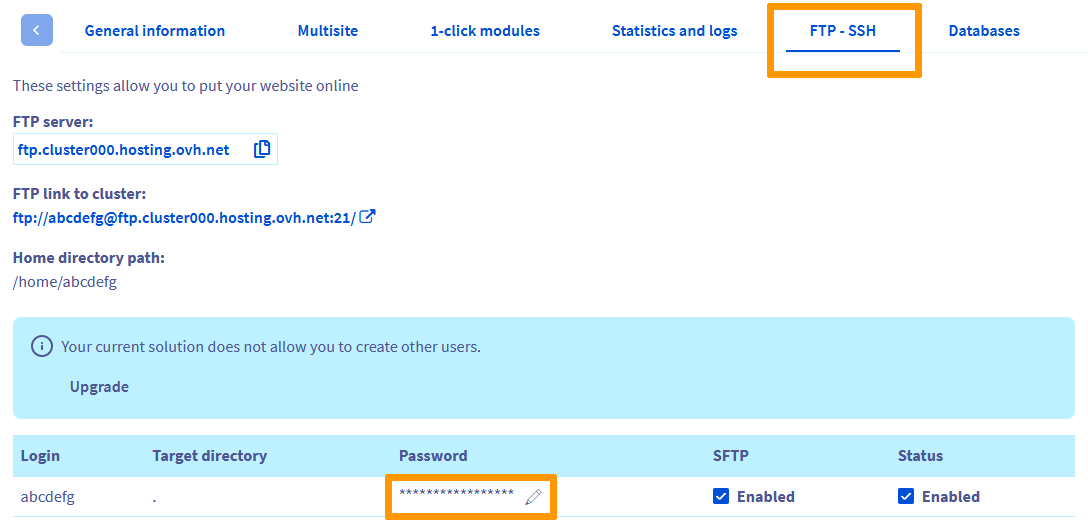
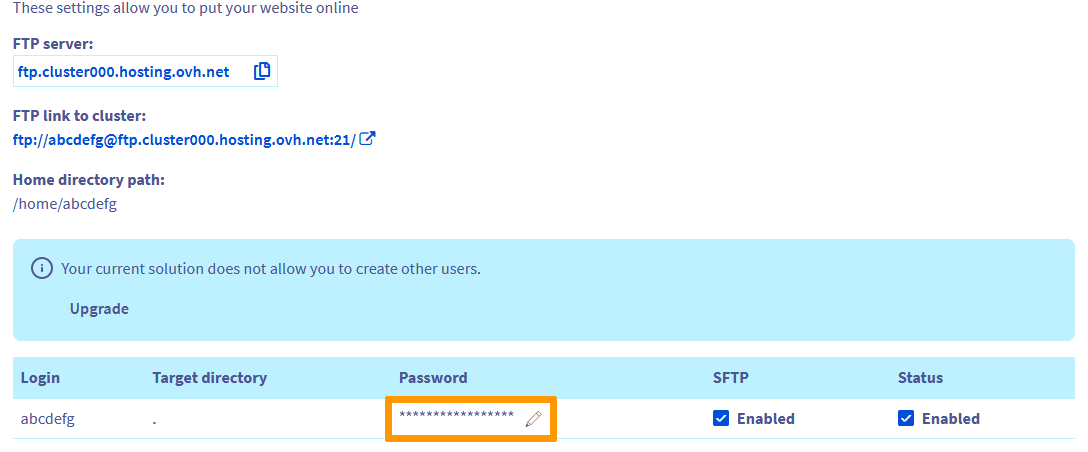
doing

diff --git a/pages/web_cloud/web_hosting/ssh_on_webhosting/guide.de-de.md b/pages/web_cloud/web_hosting/ssh_on_webhosting/guide.de-de.md
@@ -63,7 +63,7 @@ Klicken Sie auf die Tabs, um die **4** Schritte anzuzeigen.
 >>
 >> Klicken Sie auf den Tab `FTP - SSH`{.action}.
 >>
->> ![FTP-SSH](/pages/assets/screens/control_panel/product-selection/web-cloud/web-hosting/general-information/ftp-ssh.png){.thumbnail}
+>> ![FTP-SSH](/pages/assets/screens/control_panel/product-selection/web-cloud/web-hosting/ftp-ssh.png){.thumbnail}
 >> 
 > **Schritt 4**
 >>
@@ -102,7 +102,7 @@ Klicken Sie auf die Tabs, um die **4** Schritte anzuzeigen.
 >>
 >> Klicken Sie auf den Tab `FTP - SSH`{.action}.
 >>
->> ![FTP-SSH](/pages/assets/screens/control_panel/product-selection/web-cloud/web-hosting/general-information/ftp-ssh.png){.thumbnail}
+>> ![FTP-SSH](/pages/assets/screens/control_panel/product-selection/web-cloud/web-hosting/ftp-ssh.png){.thumbnail}
 >> 
 > **Schritt 4**
 >>

diff --git a/pages/web_cloud/web_hosting/ssh_on_webhosting/guide.en-asia.md b/pages/web_cloud/web_hosting/ssh_on_webhosting/guide.en-asia.md
@@ -63,7 +63,7 @@ Click on the tabs below to view each of the **4** steps in succession.
 >>
 >> On the page that pops up, click on the `FTP - SSH`{.action} tab.
 >>
->> ![FTP-SSH](/pages/assets/screens/control_panel/product-selection/web-cloud/web-hosting/general-information/ftp-ssh.png){.thumbnail}
+>> ![FTP-SSH](/pages/assets/screens/control_panel/product-selection/web-cloud/web-hosting/ftp-ssh.png){.thumbnail}
 >>
 > **Step 4**
 >>
@@ -102,7 +102,7 @@ Click on the tabs below to view each of the **4** steps in succession.
 >>
 >> On the page that pops up, click on the `FTP - SSH`{.action} tab.
 >>
->> ![FTP-SSH](/pages/assets/screens/control_panel/product-selection/web-cloud/web-hosting/general-information/ftp-ssh.png){.thumbnail}
+>> ![FTP-SSH](/pages/assets/screens/control_panel/product-selection/web-cloud/web-hosting/ftp-ssh.png){.thumbnail}
 >>
 > **Step 4**
 >>

diff --git a/pages/web_cloud/web_hosting/ssh_on_webhosting/guide.en-au.md b/pages/web_cloud/web_hosting/ssh_on_webhosting/guide.en-au.md
@@ -63,7 +63,7 @@ Click on the tabs below to view each of the **4** steps in succession.
 >>
 >> On the page that pops up, click on the `FTP - SSH`{.action} tab.
 >>
->> ![FTP-SSH](/pages/assets/screens/control_panel/product-selection/web-cloud/web-hosting/general-information/ftp-ssh.png){.thumbnail}
+>> ![FTP-SSH](/pages/assets/screens/control_panel/product-selection/web-cloud/web-hosting/ftp-ssh.png){.thumbnail}
 >>
 > **Step 4**
 >>
@@ -102,7 +102,7 @@ Click on the tabs below to view each of the **4** steps in succession.
 >>
 >> On the page that pops up, click on the `FTP - SSH`{.action} tab.
 >>
->> ![FTP-SSH](/pages/assets/screens/control_panel/product-selection/web-cloud/web-hosting/general-information/ftp-ssh.png){.thumbnail}
+>> ![FTP-SSH](/pages/assets/screens/control_panel/product-selection/web-cloud/web-hosting/ftp-ssh.png){.thumbnail}
 >>
 > **Step 4**
 >>

diff --git a/pages/web_cloud/web_hosting/ssh_on_webhosting/guide.en-ca.md b/pages/web_cloud/web_hosting/ssh_on_webhosting/guide.en-ca.md
@@ -63,7 +63,7 @@ Click on the tabs below to view each of the **4** steps in succession.
 >>
 >> On the page that pops up, click on the `FTP - SSH`{.action} tab.
 >>
->> ![FTP-SSH](/pages/assets/screens/control_panel/product-selection/web-cloud/web-hosting/general-information/ftp-ssh.png){.thumbnail}
+>> ![FTP-SSH](/pages/assets/screens/control_panel/product-selection/web-cloud/web-hosting/ftp-ssh.png){.thumbnail}
 >>
 > **Step 4**
 >>
@@ -102,7 +102,7 @@ Click on the tabs below to view each of the **4** steps in succession.
 >>
 >> On the page that pops up, click on the `FTP - SSH`{.action} tab.
 >>
->> ![FTP-SSH](/pages/assets/screens/control_panel/product-selection/web-cloud/web-hosting/general-information/ftp-ssh.png){.thumbnail}
+>> ![FTP-SSH](/pages/assets/screens/control_panel/product-selection/web-cloud/web-hosting/ftp-ssh.png){.thumbnail}
 >>
 > **Step 4**
 >>

diff --git a/pages/web_cloud/web_hosting/ssh_on_webhosting/guide.en-gb.md b/pages/web_cloud/web_hosting/ssh_on_webhosting/guide.en-gb.md
@@ -63,7 +63,7 @@ Click on the tabs below to view each of the **4** steps in succession.
 >>
 >> On the page that pops up, click on the `FTP - SSH`{.action} tab.
 >>
->> ![FTP-SSH](/pages/assets/screens/control_panel/product-selection/web-cloud/web-hosting/general-information/ftp-ssh.png){.thumbnail}
+>> ![FTP-SSH](/pages/assets/screens/control_panel/product-selection/web-cloud/web-hosting/ftp-ssh.png){.thumbnail}
 >>
 > **Step 4**
 >>
@@ -102,7 +102,7 @@ Click on the tabs below to view each of the **4** steps in succession.
 >>
 >> On the page that pops up, click on the `FTP - SSH`{.action} tab.
 >>
->> ![FTP-SSH](/pages/assets/screens/control_panel/product-selection/web-cloud/web-hosting/general-information/ftp-ssh.png){.thumbnail}
+>> ![FTP-SSH](/pages/assets/screens/control_panel/product-selection/web-cloud/web-hosting/ftp-ssh.png){.thumbnail}
 >>
 > **Step 4**
 >>

diff --git a/pages/web_cloud/web_hosting/ssh_on_webhosting/guide.en-ie.md b/pages/web_cloud/web_hosting/ssh_on_webhosting/guide.en-ie.md
@@ -63,7 +63,7 @@ Click on the tabs below to view each of the **4** steps in succession.
 >>
 >> On the page that pops up, click on the `FTP - SSH`{.action} tab.
 >>
->> ![FTP-SSH](/pages/assets/screens/control_panel/product-selection/web-cloud/web-hosting/general-information/ftp-ssh.png){.thumbnail}
+>> ![FTP-SSH](/pages/assets/screens/control_panel/product-selection/web-cloud/web-hosting/ftp-ssh.png){.thumbnail}
 >>
 > **Step 4**
 >>
@@ -102,7 +102,7 @@ Click on the tabs below to view each of the **4** steps in succession.
 >>
 >> On the page that pops up, click on the `FTP - SSH`{.action} tab.
 >>
->> ![FTP-SSH](/pages/assets/screens/control_panel/product-selection/web-cloud/web-hosting/general-information/ftp-ssh.png){.thumbnail}
+>> ![FTP-SSH](/pages/assets/screens/control_panel/product-selection/web-cloud/web-hosting/ftp-ssh.png){.thumbnail}
 >>
 > **Step 4**
 >>

diff --git a/pages/web_cloud/web_hosting/ssh_on_webhosting/guide.en-sg.md b/pages/web_cloud/web_hosting/ssh_on_webhosting/guide.en-sg.md
@@ -63,7 +63,7 @@ Click on the tabs below to view each of the **4** steps in succession.
 >>
 >> On the page that pops up, click on the `FTP - SSH`{.action} tab.
 >>
->> ![FTP-SSH](/pages/assets/screens/control_panel/product-selection/web-cloud/web-hosting/general-information/ftp-ssh.png){.thumbnail}
+>> ![FTP-SSH](/pages/assets/screens/control_panel/product-selection/web-cloud/web-hosting/ftp-ssh.png){.thumbnail}
 >>
 > **Step 4**
 >>
@@ -102,7 +102,7 @@ Click on the tabs below to view each of the **4** steps in succession.
 >>
 >> On the page that pops up, click on the `FTP - SSH`{.action} tab.
 >>
->> ![FTP-SSH](/pages/assets/screens/control_panel/product-selection/web-cloud/web-hosting/general-information/ftp-ssh.png){.thumbnail}
+>> ![FTP-SSH](/pages/assets/screens/control_panel/product-selection/web-cloud/web-hosting/ftp-ssh.png){.thumbnail}
 >>
 > **Step 4**
 >>

diff --git a/pages/web_cloud/web_hosting/ssh_on_webhosting/guide.en-us.md b/pages/web_cloud/web_hosting/ssh_on_webhosting/guide.en-us.md
@@ -63,7 +63,7 @@ Click on the tabs below to view each of the **4** steps in succession.
 >>
 >> On the page that pops up, click on the `FTP - SSH`{.action} tab.
 >>
->> ![FTP-SSH](/pages/assets/screens/control_panel/product-selection/web-cloud/web-hosting/general-information/ftp-ssh.png){.thumbnail}
+>> ![FTP-SSH](/pages/assets/screens/control_panel/product-selection/web-cloud/web-hosting/ftp-ssh.png){.thumbnail}
 >>
 > **Step 4**
 >>
@@ -102,7 +102,7 @@ Click on the tabs below to view each of the **4** steps in succession.
 >>
 >> On the page that pops up, click on the `FTP - SSH`{.action} tab.
 >>
->> ![FTP-SSH](/pages/assets/screens/control_panel/product-selection/web-cloud/web-hosting/general-information/ftp-ssh.png){.thumbnail}
+>> ![FTP-SSH](/pages/assets/screens/control_panel/product-selection/web-cloud/web-hosting/ftp-ssh.png){.thumbnail}
 >>
 > **Step 4**
 >>

diff --git a/pages/web_cloud/web_hosting/ssh_on_webhosting/guide.es-es.md b/pages/web_cloud/web_hosting/ssh_on_webhosting/guide.es-es.md
@@ -63,7 +63,7 @@ Haga clic en las fichas siguientes para ver cada uno de los **4** pasos.
 >>
 >> En la nueva página, haga clic en la pestaña `FTP - SSH`{.action}. 
 >>
->> ![FTP-SSH](/pages/assets/screens/control_panel/product-selection/web-cloud/web-hosting/general-information/ftp-ssh.png){.thumbnail}
+>> ![FTP-SSH](/pages/assets/screens/control_panel/product-selection/web-cloud/web-hosting/ftp-ssh.png){.thumbnail}
 >>
 > **Etapa 4**
 >>
@@ -102,7 +102,7 @@ Haga clic en las fichas siguientes para ver cada uno de los **4** pasos.
 >>
 >> En la nueva página, haga clic en la pestaña `FTP - SSH`{.action}. 
 >>
->> ![FTP-SSH](/pages/assets/screens/control_panel/product-selection/web-cloud/web-hosting/general-information/ftp-ssh.png){.thumbnail}
+>> ![FTP-SSH](/pages/assets/screens/control_panel/product-selection/web-cloud/web-hosting/ftp-ssh.png){.thumbnail}
 >>
 > **Etapa 4**
 >>

diff --git a/pages/web_cloud/web_hosting/ssh_on_webhosting/guide.es-us.md b/pages/web_cloud/web_hosting/ssh_on_webhosting/guide.es-us.md
@@ -63,7 +63,7 @@ Haga clic en las fichas siguientes para ver cada uno de los **4** pasos.
 >>
 >> En la nueva página, haga clic en la pestaña `FTP - SSH`{.action}. 
 >>
->> ![FTP-SSH](/pages/assets/screens/control_panel/product-selection/web-cloud/web-hosting/general-information/ftp-ssh.png){.thumbnail}
+>> ![FTP-SSH](/pages/assets/screens/control_panel/product-selection/web-cloud/web-hosting/ftp-ssh.png){.thumbnail}
 >>
 > **Etapa 4**
 >>
@@ -102,7 +102,7 @@ Haga clic en las fichas siguientes para ver cada uno de los **4** pasos.
 >>
 >> En la nueva página, haga clic en la pestaña `FTP - SSH`{.action}. 
 >>
->> ![FTP-SSH](/pages/assets/screens/control_panel/product-selection/web-cloud/web-hosting/general-information/ftp-ssh.png){.thumbnail}
+>> ![FTP-SSH](/pages/assets/screens/control_panel/product-selection/web-cloud/web-hosting/ftp-ssh.png){.thumbnail}
 >>
 > **Etapa 4**
 >>

diff --git a/pages/web_cloud/web_hosting/ssh_on_webhosting/guide.fr-ca.md b/pages/web_cloud/web_hosting/ssh_on_webhosting/guide.fr-ca.md
@@ -63,7 +63,7 @@ Cliquez sur les onglets ci-dessous pour afficher successivement chacune des **4*
 >>
 >> Sur la page qui s'affiche, cliquez sur l'onglet `FTP-SSH`{.action}. 
 >>
->> ![FTP-SSH](/pages/assets/screens/control_panel/product-selection/web-cloud/web-hosting/general-information/ftp-ssh.png){.thumbnail}
+>> ![FTP-SSH](/pages/assets/screens/control_panel/product-selection/web-cloud/web-hosting/ftp-ssh.png){.thumbnail}
 >> 
 > **Etape 4**
 >>
@@ -102,7 +102,7 @@ Cliquez sur les onglets ci-dessous pour afficher successivement chacune des **4*
 >>
 >> Sur la page qui s'affiche, cliquez sur l'onglet `FTP-SSH`{.action}. 
 >>
->> ![FTP-SSH](/pages/assets/screens/control_panel/product-selection/web-cloud/web-hosting/general-information/ftp-ssh.png){.thumbnail}
+>> ![FTP-SSH](/pages/assets/screens/control_panel/product-selection/web-cloud/web-hosting/ftp-ssh.png){.thumbnail}
 >> 
 > **Etape 4**
 >>

diff --git a/pages/web_cloud/web_hosting/ssh_on_webhosting/guide.fr-fr.md b/pages/web_cloud/web_hosting/ssh_on_webhosting/guide.fr-fr.md
@@ -63,7 +63,7 @@ Cliquez sur les onglets ci-dessous pour afficher successivement chacune des **4*
 >>
 >> Sur la page qui s'affiche, cliquez sur l'onglet `FTP-SSH`{.action}. 
 >>
->> ![FTP-SSH](/pages/assets/screens/control_panel/product-selection/web-cloud/web-hosting/general-information/ftp-ssh.png){.thumbnail}
+>> ![FTP-SSH](/pages/assets/screens/control_panel/product-selection/web-cloud/web-hosting/ftp-ssh.png){.thumbnail}
 >> 
 > **Etape 4**
 >>
@@ -102,7 +102,7 @@ Cliquez sur les onglets ci-dessous pour afficher successivement chacune des **4*
 >>
 >> Sur la page qui s'affiche, cliquez sur l'onglet `FTP-SSH`{.action}. 
 >>
->> ![FTP-SSH](/pages/assets/screens/control_panel/product-selection/web-cloud/web-hosting/general-information/ftp-ssh.png){.thumbnail}
+>> ![FTP-SSH](/pages/assets/screens/control_panel/product-selection/web-cloud/web-hosting/ftp-ssh.png){.thumbnail}
 >> 
 > **Etape 4**
 >>